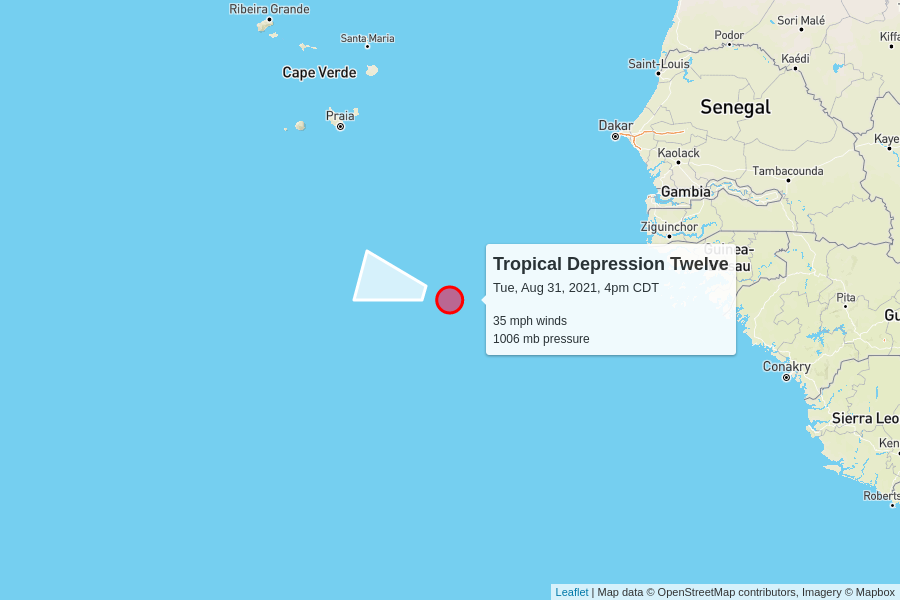
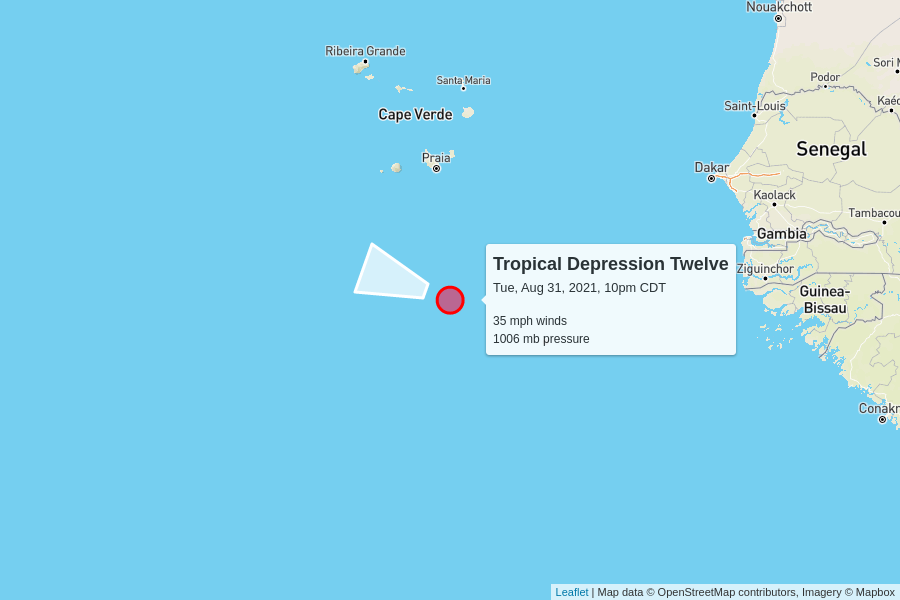
automatic update

diff --git a/docs/index.html b/docs/index.html
@@ -99,52 +99,8 @@
       <tr>
         <td colspan="6" class="storm category-0">
           <h2>
-            Tropical Depression Kate
-            <p class="updated">last updated <span data-time>2021-08-31T21:00:00.000Z</span></p>
-          </h2>
-        </td>
-      </tr>
-      
-      <tr>
-        <th class="spacer"></th>
-        <th>wind speed</th>
-        <th>central pressure</th>
-        <th>movement</th>
-        <th>data (CSV)</th>
-        <th>National Hurricane Center</th>
-      </tr>
-      <tr>
-        <td class="spacer"></td>
-        <td>35 mph</td>
-        <td>1007 mb</td>
-        <td>
-          7 mph to the north
-          <br/>
-          <span style="display: inline-block; font-size: 1.5em; transform: rotate(360deg);">↑</span>
-        </td>
-        <td><a href="https://raw.githubusercontent.com/mgwalker/atlantic-hurricanes/main/data/csv/AL102021.csv">AL102021.csv</a></td>
-        <td><a href="https://www.nhc.noaa.gov/archive/2021/KATE.shtml?">NHC advisories</a></td>
-      </tr>
-      <tr>
-        <td class="spacer">
-        <td colspan="5">
-          <figure>
-            <img src="AL102021.png">
-            <figcaption>
-              Map data &copy; <a href="https://www.openstreetmap.org/copyright">OpenStreetMap</a> contributors,
-              Imagery &copy; <a href="https://www.mapbox.com/">Mapbox</a> |
-              <a href="https://www.mapbox.com/map-feedback/" target="_blank">Improve this map</a>
-            </figcaption>
-          </figure>
-        </td>
-      </tr>
-      
-
-      <tr>
-        <td colspan="6" class="storm category-0">
-          <h2>
             Tropical Depression Twelve
-            <p class="updated">last updated <span data-time>2021-08-31T21:00:00.000Z</span></p>
+            <p class="updated">last updated <span data-time>2021-09-01T03:00:00.000Z</span></p>
           </h2>
         </td>
       </tr>
@@ -162,9 +118,9 @@
         <td>35 mph</td>
         <td>1006 mb</td>
         <td>
-          16 mph to the west-northwest
+          20 mph to the west-northwest
           <br/>
-          <span style="display: inline-block; font-size: 1.5em; transform: rotate(285deg);">↑</span>
+          <span style="display: inline-block; font-size: 1.5em; transform: rotate(290deg);">↑</span>
         </td>
         <td><a href="https://raw.githubusercontent.com/mgwalker/atlantic-hurricanes/main/data/csv/AL122021.csv">AL122021.csv</a></td>
         <td><a href="https://www.nhc.noaa.gov/archive/2021/TWELVE.shtml?">NHC advisories</a></td>
@@ -174,6 +130,50 @@
         <td colspan="5">
           <figure>
             <img src="AL122021.png">
+            <figcaption>
+              Map data &copy; <a href="https://www.openstreetmap.org/copyright">OpenStreetMap</a> contributors,
+              Imagery &copy; <a href="https://www.mapbox.com/">Mapbox</a> |
+              <a href="https://www.mapbox.com/map-feedback/" target="_blank">Improve this map</a>
+            </figcaption>
+          </figure>
+        </td>
+      </tr>
+      
+
+      <tr>
+        <td colspan="6" class="storm category-0">
+          <h2>
+            Tropical Depression Kate
+            <p class="updated">last updated <span data-time>2021-09-01T03:00:00.000Z</span></p>
+          </h2>
+        </td>
+      </tr>
+      
+      <tr>
+        <th class="spacer"></th>
+        <th>wind speed</th>
+        <th>central pressure</th>
+        <th>movement</th>
+        <th>data (CSV)</th>
+        <th>National Hurricane Center</th>
+      </tr>
+      <tr>
+        <td class="spacer"></td>
+        <td>30 mph</td>
+        <td>1009 mb</td>
+        <td>
+          10 mph to the north-northwest
+          <br/>
+          <span style="display: inline-block; font-size: 1.5em; transform: rotate(345deg);">↑</span>
+        </td>
+        <td><a href="https://raw.githubusercontent.com/mgwalker/atlantic-hurricanes/main/data/csv/AL102021.csv">AL102021.csv</a></td>
+        <td><a href="https://www.nhc.noaa.gov/archive/2021/KATE.shtml?">NHC advisories</a></td>
+      </tr>
+      <tr>
+        <td class="spacer">
+        <td colspan="5">
+          <figure>
+            <img src="AL102021.png">
             <figcaption>
               Map data &copy; <a href="https://www.openstreetmap.org/copyright">OpenStreetMap</a> contributors,
               Imagery &copy; <a href="https://www.mapbox.com/">Mapbox</a> |
